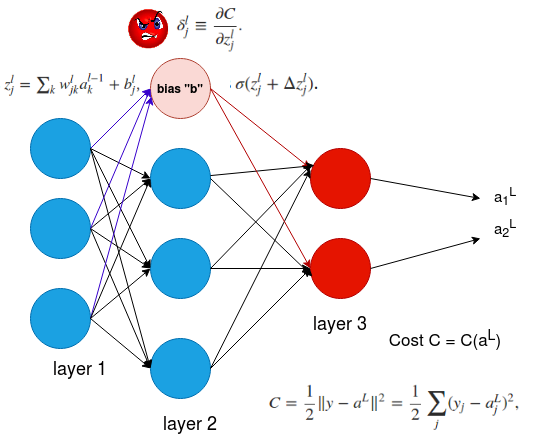
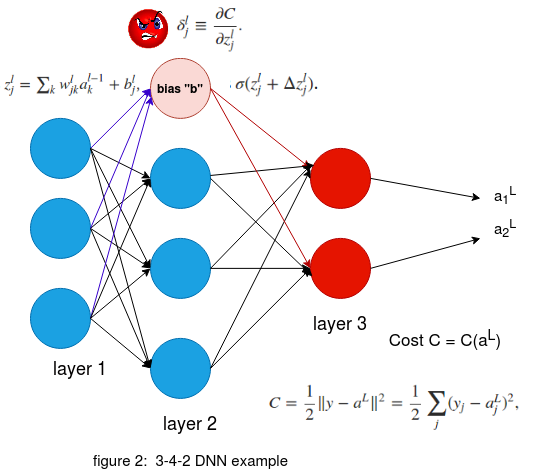
New changes

diff --git a/post1.html b/post1.html
@@ -12,20 +12,31 @@
 		<link rel="stylesheet" href="assets/css/main.css" />
 		<noscript><link rel="stylesheet" href="assets/css/noscript.css" /></noscript>
 	</head>
-	<body class="is-preload">
+	
 
-
-
-		
-		.TextWrapLeft
-        {
-			clear: left.
-			float: left;
-			margin: 10px;
+  
+		<head>
+        <style>
+			.floatleft
+		{
+		float: left;
+		width: 100px;
 		}
 
+		.center 
+		{
+        display: block;
+        margin-left: auto;
+        margin-right: auto;
+        width: 50%;
+        }
+		
+		</style>
+		</head>
 
-
+		<body class="is-preload"></body>
+		
+		
 		<!-- Wrapper -->
 			<div id="wrapper">
 
@@ -50,47 +61,68 @@
 										in order to appreciate this post.</p>
 									
 								</header>
+
+
 								<div>
-									<img style="margin: 5px 20px 0 0;" ALIGN="left" src="images/post1/The-four-horsemen.png"  width="400" height="400"  style="border:5px solid black"/>
+									
+									<img style="margin: 5px 20px 0 0;" ALIGN="left" src="images/post1/The-four-Horsemen.png"  width="400" height="400"  style="border:5px solid black"/>
+									
+									
 								</div> 
 
 								<p  style="color:black;font-size:18px;"> 
 									
-									The structure of the equations shown in the figure (for example: using the Hadamard product instead of Matrix multiplication)
+									The structure of the equations shown in figure 1 (for example: using the Hadamard product instead of Matrix multiplication)
 									is inspired from the book "Neural Networks and Deeplearning" by "Michael Nielsen". 
 									This book is highly recommended if one is looking for a mathematically intensive approach to the topic. In this article we will not dive into the 
 									backpropogation algorithm itself but try and understand the relevence of these equations and how certain terms appear in them. This post can be used as a 
 									supplement while understanding backpropogation or like a cheatsheet if one has understood the mathematical view point of this algorithm.
-									Before going into the discussion of each equation we will quickly establish what each term in the set of four equations mean considering a pictorial representation of DNN. 
+									Before discussing about each equation we will quickly establish what each term in the set of four equations mean; considering a pictorial representation of a Deep Neural Network (DNN). 
 								</p>
 
 
 
 								<div>
+									
 									<img style="margin: 0 0 5px 20px;" ALIGN="right"  src="images/post1/DNN.png"  width="500" height="375"  style="border:5px solid black"/>
+								
 								</div> 
 								
+
 								<p  style="color:black;font-size:18px;"> 
 									
-									The figure on the right having the configuration of 3-4-2 DNN structure depicts the various terms in the network. <b>'w'</b> is the weight arriving to the corresponding neuron.
-									The weight 'w' is moving to the <b>'j<sup>th</sup>'</b> neuron in the <b>'l<sup>th</sup>'</b> layer from the <b>'k<sup>th</sup>'</b> neuron in the <b>'(l-1)<sup>th</sup>'</b> layer The weighted sum at a neuron in layer <b>'l'</b> with bias <b>'b'</b> is represented by <b>'z'</b>.
+									Figure 2 on the right with the configuration of 3-4-2 DNN structure depicts the various terms in the network. <b>'w'</b> is the weight arriving to the corresponding neuron.
+									The weight 'w' is moving to the <b>'j<sup>th</sup>'</b> neuron in the <b>'l<sup>th</sup>'</b> layer from the <b>'k<sup>th</sup>'</b> neuron in the <b>'(l-1)<sup>th</sup>'</b> layer. The weighted sum at a neuron in layer <b>'l'</b> with bias <b>'b'</b> is represented by <b>'z'</b>.
 									 A point to remember here is that the bias <b>'b'</b> is local to a neuron while the weights <b>'w'</b> are not. The activation function is represented by <b>'&sigma;'</b> and the activation function of a neuron is given by <b>'&sigma;(z)'</b>.
-									Here the output of the activation is represented by <b>'a'</b> , that is <b>'&sigma;(z) = a'</b>.   
+									Here the output of the activation is represented by <b>'a'</b> , that is <b>&sigma;(z) = a</b>.   
 								</p>
 								<p  style="color:black;font-size:18px;"> 
 									
-									The <b>Cost function C</b> considered here is given by the quadratic function as shown in the figure. Here <b>'a<sub>j</sub><sup>L</sup>'</b> is the final prediction at the 'L<sup>th</sup>' layer and the <b>'j<sup>th</sup>'</b> neuron.
-									 and <b>'y<sub>j</sub>'</b> is the ground truth at the <b>j<sup>th</sup></b> output neuron of the input data point. Here an important point to note is that the ground truth is constant thus the cost C is purely a function of <b>'a<sup>L</sup>'</b> , <b>Cost C = C(a<sup>L</sup>)</b>. 
+									The <b>Cost function C</b> considered here is given by the quadratic equation as shown in the figure. Here <b>'a<sub>j</sub><sup>L</sup>'</b> is the final prediction at the <b>'L<sup>th</sup>'</b> layer and the <b>'j<sup>th</sup>'</b> neuron.
+									 and <b>'y<sub>j</sub>'</b> is the ground truth at the <b>'j<sup>th</sup>'</b> output neuron of the input data point. Here an important point to note is that the ground truth is constant thus the cost C is purely a function of <b>'a<sup>L</sup>'</b> , <b>Cost C = C(a<sup>L</sup>)</b>. 
 								</p>
 								
                                 <p  style="color:black;font-size:18px;"> 
 							   
 									Now we will consider the most important term that we are interested in '<b>&delta;'</b>. Here consider the neuron marked in light pink , the blue arrows indicate the incoming weights <b>'w'</b> to the neuron while the red arrows indicate the outgoing activation terms <b>'a'</b>.
 								 When the weighted sum <b>'z'</b> with the incoming blue weights <b>'w'</b> along with the bias <b>'b'</b> in the neuron is computed it induces an error <b>'&delta;<sub>j</sub><sup>l</sup>'</b>' ; at the <b>'j<sup>th</sup></b>' neuron and the <b>'l<sup>th</sup>'</b> layer. 
-								 Futher this error propogates through the rest of the network as it effects the activation <b>'&sigma;'</b> as shown in the figure and effects the output <b>'a<sup>L</sup>'</b>. Since se know that the <b>Cost 'C'</b> is completely dependent on <b>'a<sup>L</sup>'</b> in the final layer 
+								 Futher this error propogates through the rest of the network as it effects the activation <b>'&sigma;'</b> as shown in the figure and eventually effects the output <b>'a<sup>L</sup>'</b>. Since we know that the <b>Cost 'C'</b> is completely dependent on <b>'a<sup>L</sup>'</b> in the final layer 
 								, the term that would be interesting for us is the partial derivative <b>&part;C/&part;z<sub>j</sub><sup>l</sup></b> which tells us the rate of change of the Cost function with respect to the weighted sum <b>'z'</b> which includes the incoming weights <b>'w'</b> and bias <b>'b'</b> of the neuron.
-							 
+								Thus if we can somehow get to know the partial derivative <b>&part;C/&part;w<sub>jk</sub><sup>l</sup></b> at the <b>'j<sup>th</sup>'</b> neuron in the <b>'l<sup>th</sup>'</b> , this will give 
+								us information on how the cost function is changing with respect to a wight <b>'w'</b> in some random neuron in the network. <b>Finally this can be used to modify the weights in our network and thus allowing us to modify the <b>'&delta;<sub>j</sub><sup>l</sup>'</b>' value with a motto of reducing the Cost function.
+								This was a fast recap of the essentials before we start discussing about each equations and this sets the stage for futher discussions. The gif below shows the pictorial recap of the working of backpropogation.
+							   
+								</b>
+								Since we have set the stage for our article now we can finally start appreciating the math and have a natuarl understanding of the four equations in figure 1.
 								</p>
+
+								<div>
+									
+									<img  class="center" ALIGN="bottom" alt="Backpropogation gif example"  src="images/post1/backpropogation.gif"  style="border:5px solid black">
+							        <p style="text-align: center;font-size:15px;">Figure 3: Backpropogation working gif</p>
+								    
+								</div> 
+
 
 								
 							</section>
